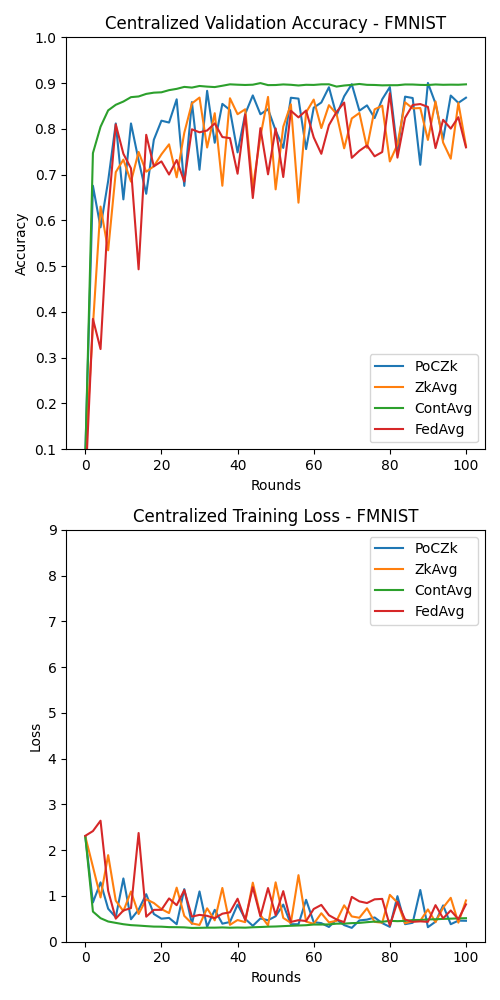
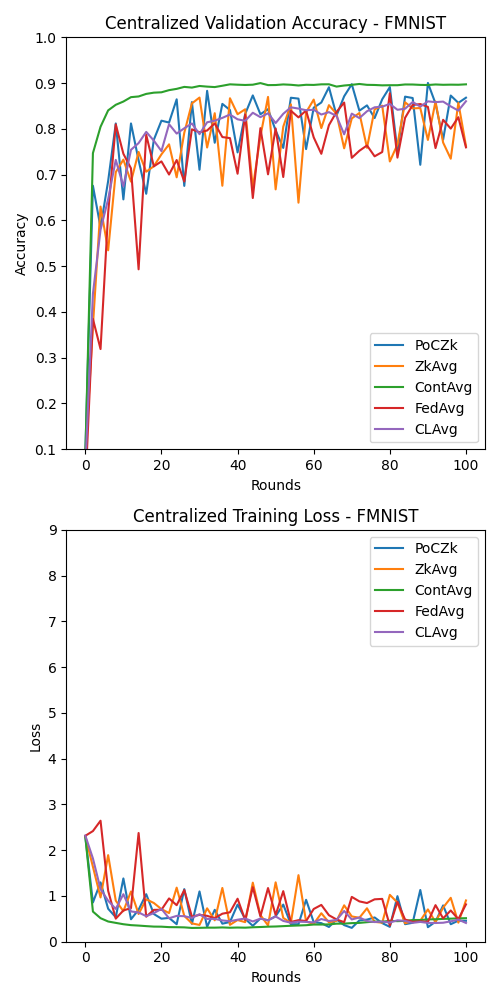
implementation of clustering algorithm

diff --git a/clientcontributionfl/server_strategy/clustering_strategy.py b/clientcontributionfl/server_strategy/clustering_strategy.py
@@ -19,27 +19,18 @@ from logging import INFO
 from pprint import PrettyPrinter
 
 from collections import defaultdict
-from clientcontributionfl.utils import aggregate
+from clientcontributionfl.utils import aggregate, aggregate_between_clusters
+import numpy as np
+from sklearn.cluster import AgglomerativeClustering
 
 
-class ContributionAvg(FedAvg):
-    """
+class CLAvg(FedAvg):
     
-    ContributionAvg is a strategy that extends the FedAvg algorithm by incorporating
-    contribution aggregation of score sent by clients. Scores are computed locally
-    by clients and nodes with poor contribution are filtered out and no considered for
-    the next round of training.
-
-
-    Attributes:
-        client_data (defaultdict): A dictionary storing contribution scores for each client.
-        discarding_threshold (float): A threshold below which clients are considered to have poor contributions and are filtered out.
-    """
-
     def __init__(self, selection_thr: float,*args, **kwargs):
         super().__init__(*args, **kwargs)
         self.client_data = defaultdict(lambda: 1)
-        self.discarding_threshold: float = selection_thr 
+        self.clusters : dict[str, int] = {}
+        self.discarding_threshold: float = selection_thr  
 
     def _normalize_scores(self):
         """
@@ -74,13 +65,29 @@ class ContributionAvg(FedAvg):
         
         log(INFO, "Score aggregated")
    
-    def _filter_clients(self, clients: List[ClientProxy]) -> List[ClientProxy]:
-        """Filter clients based on their contribution score."""
+    def _cluster_clients(self) -> Dict[str, int]:
+        """Filter clients based on their contribution score and return a dictionary of clusters."""
+
+        # Extract client scores into a numpy array
+        scores = np.array(list(self.client_data.values())).reshape(-1, 1)  # Reshape for clustering
+
+        # Create and fit the AgglomerativeClustering model
+        clustering = AgglomerativeClustering(
+            n_clusters=None,
+            distance_threshold=0.0001,
+            metric="l1",  
+            linkage="complete"
+        )
+        clustering.fit(scores)
         
-        filtered_clients = [c for c in clients if self.client_data[c.cid] >= self.discarding_threshold]
-        return filtered_clients
+        # Create a dictionary where the key is the client cid and the value is its corresponding cluster
+        client_clusters = {}
+        for client_id, label in zip(self.client_data.keys(), clustering.labels_):
+            client_clusters[client_id] = label
+        
+        return client_clusters
 
-
+        
     def aggregate_fit(
         self,
         server_round: int,
@@ -94,24 +101,44 @@ class ContributionAvg(FedAvg):
         if not self.accept_failures and failures:
             return None, {}
 
-        else:
-            # Convert results
-            weights_results = [
-                (parameters_to_ndarrays(fit_res.parameters), fit_res.num_examples)
-                for _, fit_res in results
-            ]
-            aggregated_ndarrays = aggregate(weights_results)
-
-        parameters_aggregated = ndarrays_to_parameters(aggregated_ndarrays)
-
-        # aggregate keys, score and normalize them
+        # aggregate scores and create cluster based on their similarity
         if server_round == 1:
             fit_metrics = [(res.num_examples, res.metrics) for _, res in results]
             self._aggregate_scores(fit_metrics)
             self._normalize_scores()
-            PrettyPrinter(indent=4).pprint(self.client_data)
+            self.clusters = self._cluster_clients()
+            PrettyPrinter(indent=4).pprint(self.clusters)
+            weights_results = [
+                (parameters_to_ndarrays(fit_res.parameters), fit_res.num_examples, )
+                for _, fit_res in results
+            ]
+            aggregated_ndarrays = aggregate(weights_results)
+
+        else:
+
+            weights_results = [
+                (parameters_to_ndarrays(fit_res.parameters), fit_res.num_examples, client.cid)
+                for client, fit_res in results
+            ]
+            aggregated_ndarrays = aggregate_between_clusters(weights_results, self.clusters)
+
+        parameters_aggregated = ndarrays_to_parameters(aggregated_ndarrays)
 
         return parameters_aggregated, {}
+
+    def _get_clients_by_cluster(self, clients: list[ClientProxy]) -> dict[int, list[str]]:
+        clusters = {}
+        for client in clients:
+            cluster_id = self.clusters[client.cid]
+            if cluster_id not in clusters:
+                clusters[cluster_id] = []
+            clusters[cluster_id].append(client)
+        return clusters
+
+
+    def num_fit_clients(self, num_available_clients: int) -> tuple[int, int]:
+        """Return the sample size and the required number of available clients."""
+        return max(num_available_clients, self.min_fit_clients), self.min_available_clients
 
     def configure_fit(
         self, server_round: int, parameters: Parameters, client_manager: ClientManager
@@ -121,9 +148,6 @@ class ContributionAvg(FedAvg):
         if self.on_fit_config_fn is not None:
             # Custom fit config function provided
             config = self.on_fit_config_fn(server_round)
-        # TODO fit_ins is only one but you can create a different one
-        # for each client, could be useful for client clustering.
-        fit_ins = FitIns(parameters, config)
         
         
         sample_size, min_num_clients = self.num_fit_clients(
@@ -134,10 +158,21 @@ class ContributionAvg(FedAvg):
             num_clients=sample_size, min_num_clients=min_num_clients
         )
 
-        # do not filter when is the first round
-        if server_round != 1:
-            clients = self._filter_clients(clients)
-        
+        if server_round > 1:
+            # Split clients into sublists based on their cluster
+            cluster_clients = self._get_clients_by_cluster(clients)
+
+            # Select a fraction of clients from each cluster and print their cid
+            selected_clients = []
+            for cluster_id, cluster_list in cluster_clients.items():
+                num_clients_to_sample = max(1, int(len(cluster_list) * self.fraction_fit))
+                sampled_clients = np.random.choice(cluster_list, num_clients_to_sample, replace=False).tolist()
+                selected_clients.extend(sampled_clients)
+                log(INFO, f"Selected clients from cluster {cluster_id}: {[c.cid for c in sampled_clients]}")
+            clients = selected_clients
+
+        fit_ins = FitIns(parameters, config)
+
         # Return client/config pairs
         return [(client, fit_ins) for client in clients]
 
@@ -164,9 +199,6 @@ class ContributionAvg(FedAvg):
         clients = client_manager.sample(
             num_clients=sample_size, min_num_clients=min_num_clients
         )
-
-        # filter clients based on score
-        clients = self._filter_clients(clients)
 
         # Return client/config pairs
         return [(client, evaluate_ins) for client in clients]

diff --git a/clientcontributionfl/utils/train_utils.py b/clientcontributionfl/utils/train_utils.py
@@ -204,6 +204,39 @@ def aggregate(results: list[tuple[NDArrays, int]]) -> NDArrays:
     ]
     return weights_prime
 
+def aggregate_between_clusters(results: list[tuple[NDArrays, int, str]], clusters: dict[str, int]) -> NDArrays:
+    """Compute weighted average within clusters and then average between clusters."""
+    
+    # Group results by cluster
+    cluster_results = {}
+    for weights, num_examples, client_id in results:
+        cluster_id = clusters[client_id]
+        if cluster_id not in cluster_results:
+            cluster_results[cluster_id] = []
+        cluster_results[cluster_id].append((weights, num_examples))
+    
+    # Compute weighted average within each cluster
+    cluster_averages = {}
+    for cluster_id, cluster_data in cluster_results.items():
+        num_examples_total = sum(num_examples for _, num_examples in cluster_data)
+        weighted_weights = [
+            [layer * num_examples for layer in weights] for weights, num_examples in cluster_data
+        ]
+        cluster_averages[cluster_id] = [
+            reduce(np.add, layer_updates) / num_examples_total
+            for layer_updates in zip(*weighted_weights)
+        ]
+    
+    # Compute the average between clusters
+    total_clients = len(results)
+    weights_prime: NDArrays = [
+        sum(cluster_averages[cluster_id][i] * len(cluster_results[cluster_id]) / total_clients
+            for cluster_id in cluster_averages)
+        for i in range(len(cluster_averages[next(iter(cluster_averages))]))
+    ]
+    
+    return weights_prime
+
 
 def generate_zok_client_score_template(classes: int):
     """

diff --git a/clientcontributionfl/server_utils.py b/clientcontributionfl/server_utils.py
@@ -10,7 +10,7 @@ from flwr.common import Metrics, Scalar
 from flwr.server.strategy import FedAvg, Strategy
 
 import clientcontributionfl.models as models
-from clientcontributionfl.server_strategy import ZkAvg, ContributionAvg, PoCZk, PoC, MerkleProofAvg
+from clientcontributionfl.server_strategy import ZkAvg, ContributionAvg, PoCZk, PoC, MerkleProofAvg, CLAvg
 from clientcontributionfl.utils import get_model_class, generate_zok_client_score_template, write_zok_file
 
 
@@ -134,7 +134,12 @@ def get_strategy(
         
         common_args["fraction_fit"] = 1.0 
         common_args['selection_thr'] = cfg['selection_thr']
-        strategy_class = ContributionAvg
+        strategy_class = ContributionAvg 
+
+    elif cfg['strategy'] == 'CLAvg':
+        common_args["fraction_fit"] = 0.8 
+        common_args['selection_thr'] = cfg['selection_thr']
+        strategy_class = CLAvg
 
     elif cfg['strategy'] == 'ZkAvg':
         common_args['selection_thr'] = cfg['selection_thr']

diff --git a/clientcontributionfl/utils/__init__.py b/clientcontributionfl/utils/__init__.py
@@ -1,3 +1,3 @@
 from .score import compute_score
 from .file_utils import cleanup_proofs, extract_score_from_proof, forge_score_in_proof, check_arguments, generate_file_suffix, read_file_as_bytes, write_bytes_to_file
-from .train_utils import plot_comparison_from_files, plot_for_varying_alphas, aggregate, SelectionPhase, string_to_enum, get_model_class, plot_accuracy_for_different_x, plot_label_partitioning, write_zok_file, generate_zok_merkle_tree_template, generate_zok_client_score_template, measure_cpu_and_time, measure_memory_usage
+from .train_utils import plot_comparison_from_files, plot_for_varying_alphas, aggregate, SelectionPhase, string_to_enum, get_model_class, plot_accuracy_for_different_x, plot_label_partitioning, write_zok_file, generate_zok_merkle_tree_template, generate_zok_client_score_template, measure_cpu_and_time, measure_memory_usage, aggregate_between_clusters

diff --git a/main.py b/main.py
@@ -64,9 +64,9 @@ def add_parser_arguments(parser : argparse.ArgumentParser):
 def run_simulations(args):
     """Run simulation for each strategy."""
     strategies = args.strategies
-    for strategy in strategies:
-        cleanup_proofs()
-        run_simulation(args, strategy)
+    # for strategy in strategies:
+    #     cleanup_proofs()
+    #     run_simulation(args, strategy)
 
 def run_simulation(args, strategy):
 
@@ -132,7 +132,5 @@ def save_simulation_results(strategies, config):
 
 if __name__ == "__main__":
     main()
-    
-
     # results_path = Path("results/simulation/PoC_worst_case")
     # plot_accuracy_for_different_x(results_path, "history_S=PoC") 

diff --git a/clientcontributionfl/client_app.py b/clientcontributionfl/client_app.py
@@ -13,6 +13,7 @@ def create_client(strategy: str, **kwargs) -> Client:
         "FedAvg": FedAvgClient,
         "ZkAvg": ZkClient,
         "ContAvg": ContributionClient,
+        "CLAvg": ContributionClient,
         "PoC": PoCClient,
         "PoCZk": PoCZkClient,
         "MPAvg": MerkleProofClient
@@ -72,7 +73,7 @@ def client_fn(context: Context) -> Client:
         
         return create_client(config["strategy"], **common_args)
     
-    elif config["strategy"] == "ContAvg":
+    elif config["strategy"] in ["ContAvg", "CLAvg"]:
         partition_counts = compute_partition_counts(
             data_loader=train_loader,
             partition_id=partition_id,

diff --git a/clientcontributionfl/utils/file_utils.py b/clientcontributionfl/utils/file_utils.py
@@ -145,7 +145,7 @@ def check_arguments(args):
         return False
 
 def _check_strategies(strategies: List[str]):
-    valid_strategies = {"FedAvg", "ZkAvg", "ContAvg", "PoC", "PoCZk", "MPAvg"}
+    valid_strategies = {"FedAvg", "ZkAvg", "ContAvg", "CLAvg", "PoC", "PoCZk", "MPAvg"}
     invalid_strategies = [s for s in strategies if s not in valid_strategies]
     if invalid_strategies:
         raise ValueError(f"Invalid strategies: {invalid_strategies}. Valid options are: {valid_strategies}")

diff --git a/clientcontributionfl/client_strategy/zkavg_client.py b/clientcontributionfl/client_strategy/zkavg_client.py
@@ -171,7 +171,7 @@ class ZkClient(NumPyClient):
             self.compute_zkp_contribution(score)
             params["vrfkey"] = self.path_proof_dir
             
-            # add additional value
+            # directly create a fake score in the proof.json file to simulate malicious client
             if self.dishonest: 
                 forge_score_in_proof(os.path.join(self.path_proof_dir, "proof.json"), self.dishonest_value)
 

diff --git a/clientcontributionfl/server_strategy/__init__.py b/clientcontributionfl/server_strategy/__init__.py
@@ -3,3 +3,4 @@ from .contribution_strategy import ContributionAvg
 from .poc_strategy import PoCZk, PoC
 from .poc_workflow import PoCWorkflow, DefaultWorkflow
 from .merkle_proof_strategy import MerkleProofAvg
+from .clustering_strategy import CLAvg
